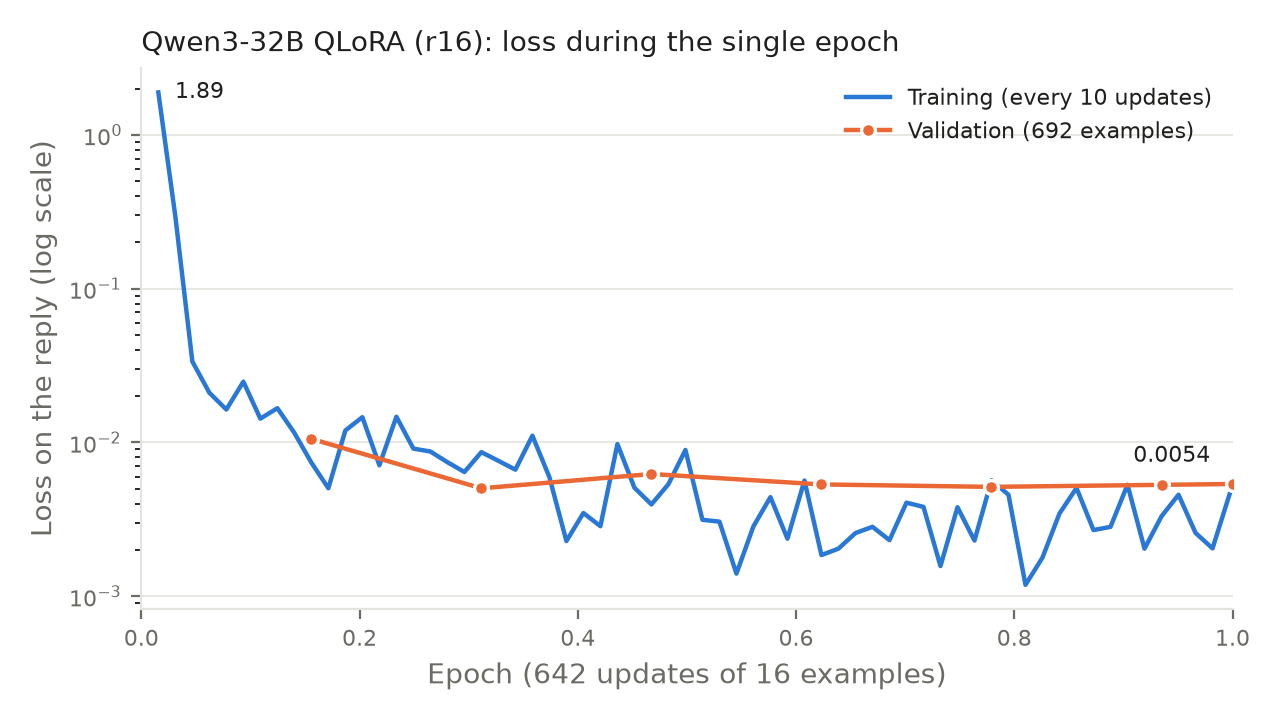
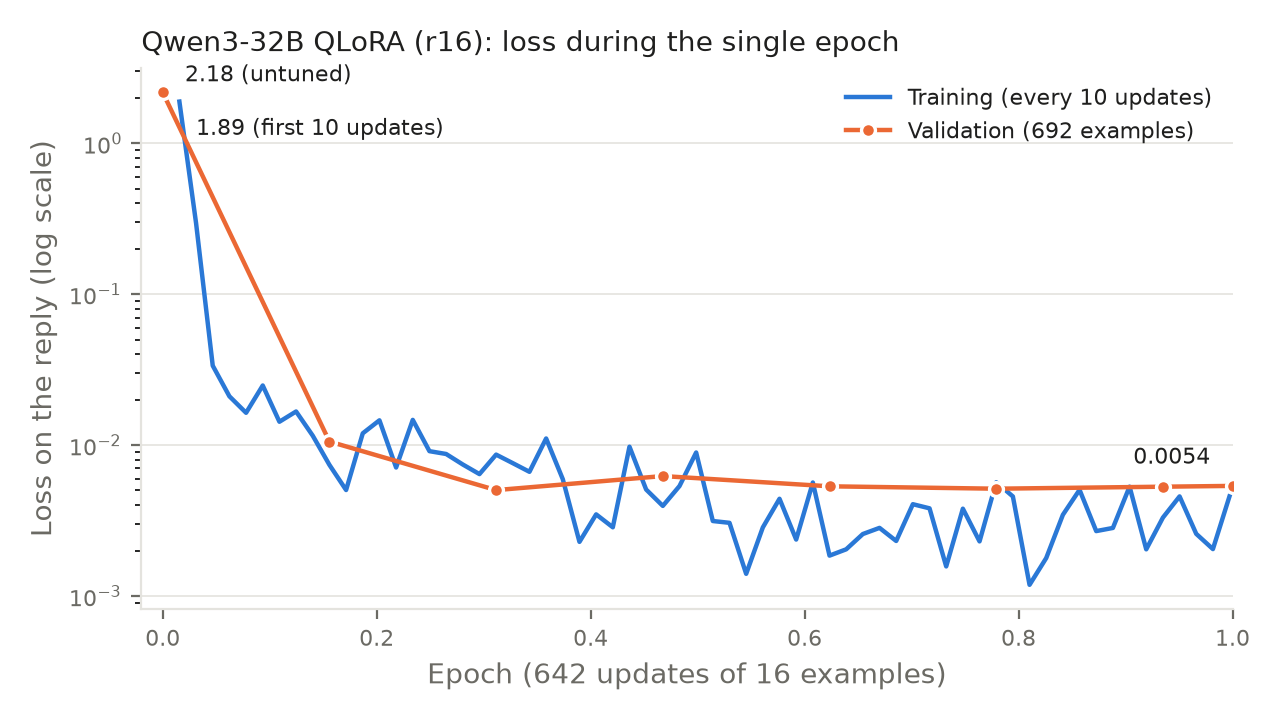
Fine-tune results: validation loss at update 0 (untuned model, 2.18)
Measured with train.py --eval-only on the same 692 validation examples, since the run itself first
evaluated at update 100. eval_step0.json and its log saved; loss.png/pdf now start the validation
curve at update 0.

diff --git a/finetune/results/qwen3-32b-r16/plot_loss.py b/finetune/results/qwen3-32b-r16/plot_loss.py
@@ -18,13 +18,17 @@ def main() -> None:
     log = json.loads((HERE / "log_history.json").read_text(encoding="utf-8"))
     train = [(e["epoch"], e["loss"]) for e in log if "loss" in e]
     val = [(e["epoch"], e["eval_loss"]) for e in log if "eval_loss" in e]
+    # update 0: the untuned model, measured afterwards with train.py --eval-only
+    step0 = HERE / "eval_step0.json"
+    if step0.exists():
+        val.insert(0, (0.0, json.loads(step0.read_text(encoding="utf-8"))["eval_loss"]))
 
     fig, ax = plt.subplots(figsize=(6.4, 3.6), dpi=200)
     ax.plot(*zip(*train, strict=True), color=TRAIN, lw=1.6, label="Training (every 10 updates)")
     ax.plot(*zip(*val, strict=True), color=VAL, lw=1.6, marker="o", ms=5,
             mec="white", mew=1.2, label="Validation (692 examples)")  # fmt: skip
     ax.set_yscale("log")
-    ax.set_xlim(0, 1.0)
+    ax.set_xlim(-0.02, 1.0)
     ax.set_xlabel("Epoch (642 updates of 16 examples)", color=MUTED)
     ax.set_ylabel("Loss on the reply (log scale)", color=MUTED)
     ax.grid(axis="y", color=GRID, lw=0.6)
@@ -35,8 +39,11 @@ def main() -> None:
     ax.tick_params(colors=MUTED, labelsize=8)
     ax.legend(frameon=False, fontsize=8, labelcolor=INK, loc="upper right")
     first = train[0]
-    ax.annotate(f"{first[1]:.2f}", first, xytext=(6, -2), textcoords="offset points",
+    ax.annotate(f"{first[1]:.2f} (first 10 updates)", first, xytext=(6, -12), textcoords="offset points",
                 fontsize=8, color=INK)  # fmt: skip
+    if val[0][0] == 0.0:
+        ax.annotate(f"{val[0][1]:.2f} (untuned)", val[0], xytext=(8, 4),
+                    textcoords="offset points", fontsize=8, color=INK)  # fmt: skip
     ax.annotate(f"{val[-1][1]:.4f}", val[-1], xytext=(-8, 8), textcoords="offset points",
                 fontsize=8, color=INK, ha="right")  # fmt: skip
     ax.set_title("Qwen3-32B QLoRA (r16): loss during the single epoch", fontsize=10,
